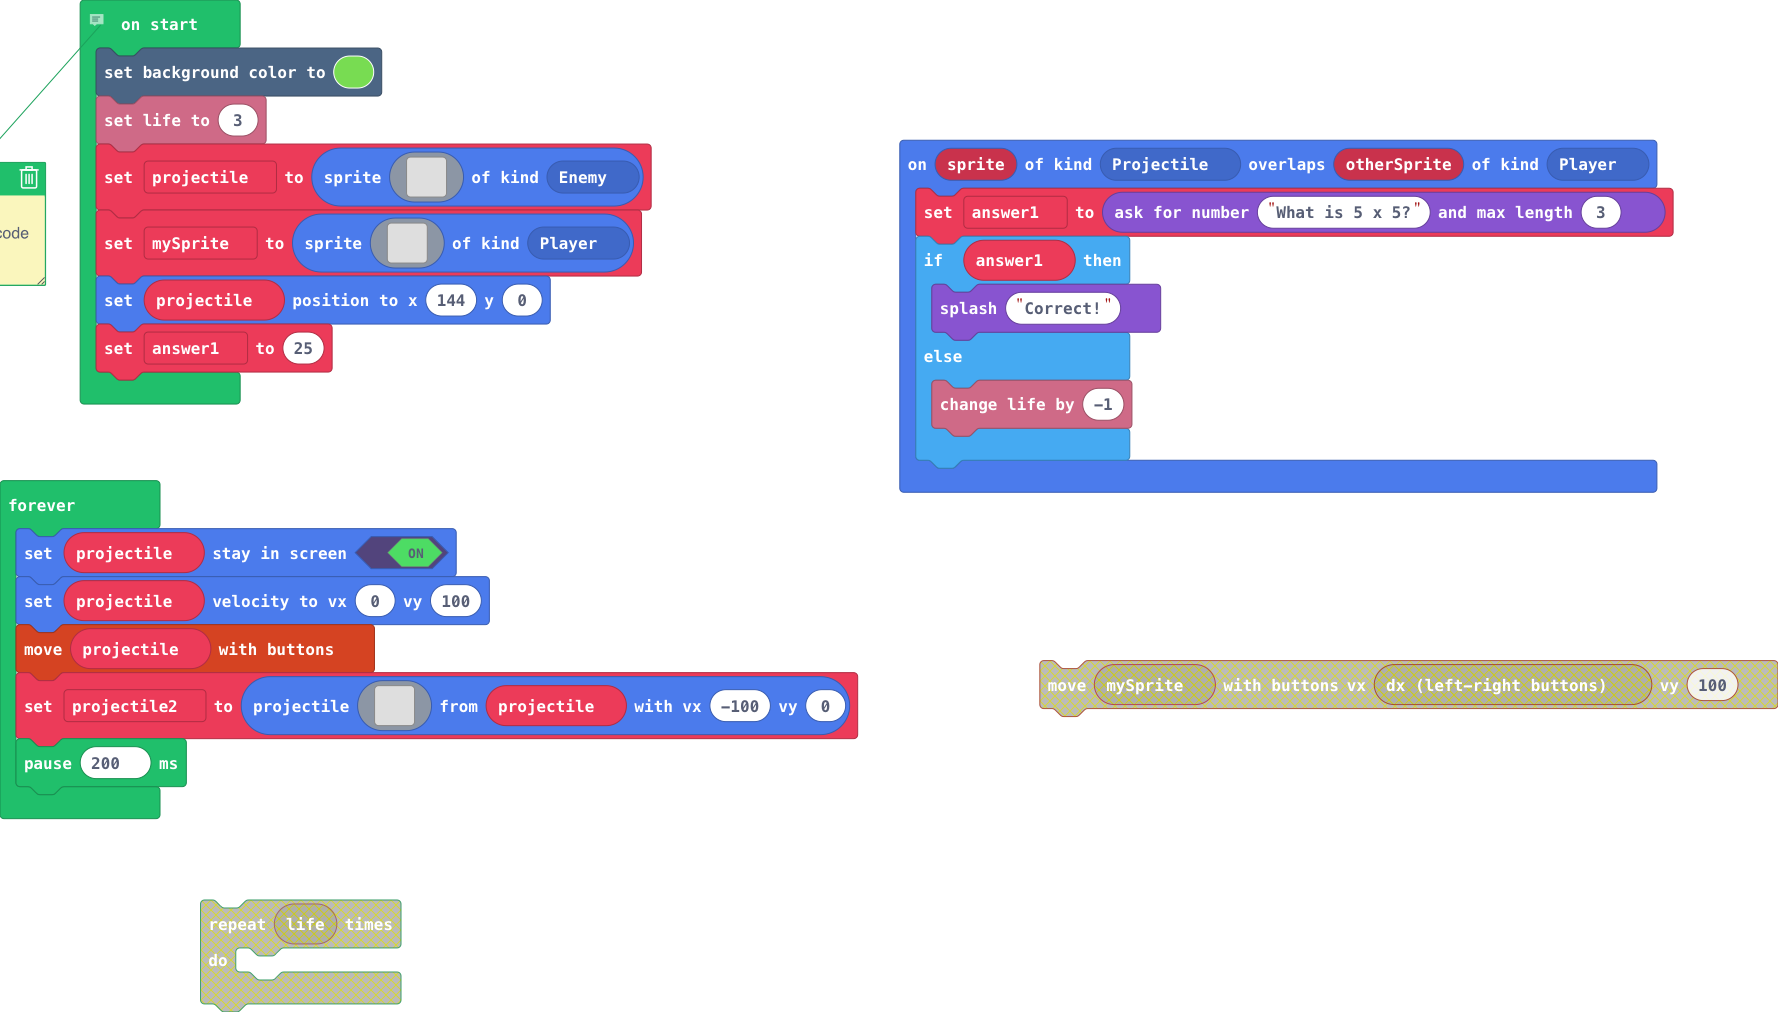
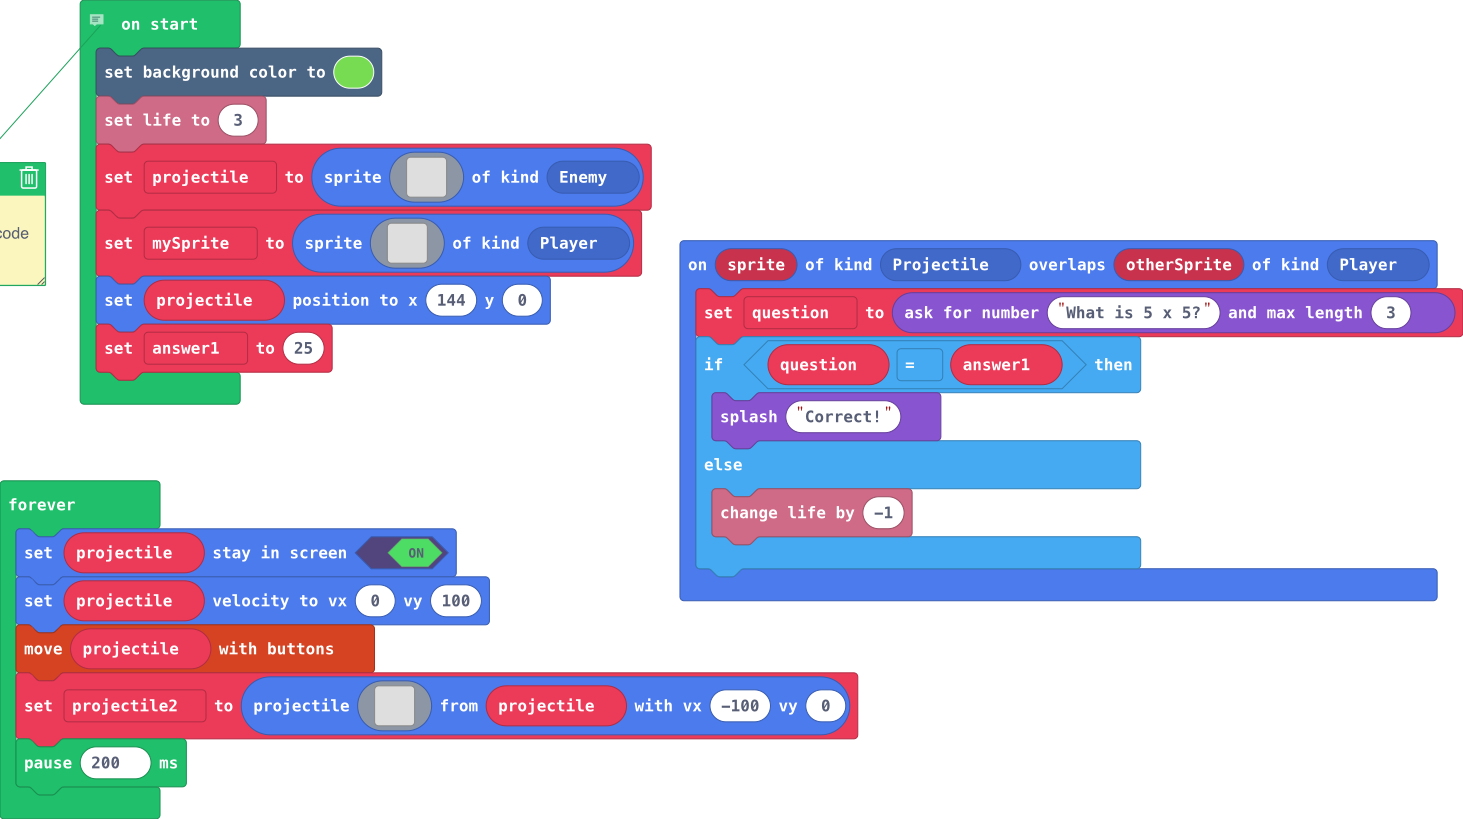
Update main.blocks, main.ts

diff --git a/main.ts b/main.ts
@@ -1,6 +1,6 @@
 sprites.onOverlap(SpriteKind.Projectile, SpriteKind.Player, function (sprite, otherSprite) {
-    answer1 = game.askForNumber("What is 5 x 5?", 3)
-    if (answer1) {
+    question = game.askForNumber("What is 5 x 5?", 3)
+    if (question == answer1) {
         game.splash("Correct!")
     } else {
         info.changeLifeBy(-1)
@@ -8,6 +8,7 @@ sprites.onOverlap(SpriteKind.Projectile, SpriteKind.Player, function (sprite, ot
 })
 // Don't forget to comment your code as you work!
 let projectile2: Sprite = null
+let question = 0
 let answer1 = 0
 scene.setBackgroundColor(7)
 info.setLife(3)
